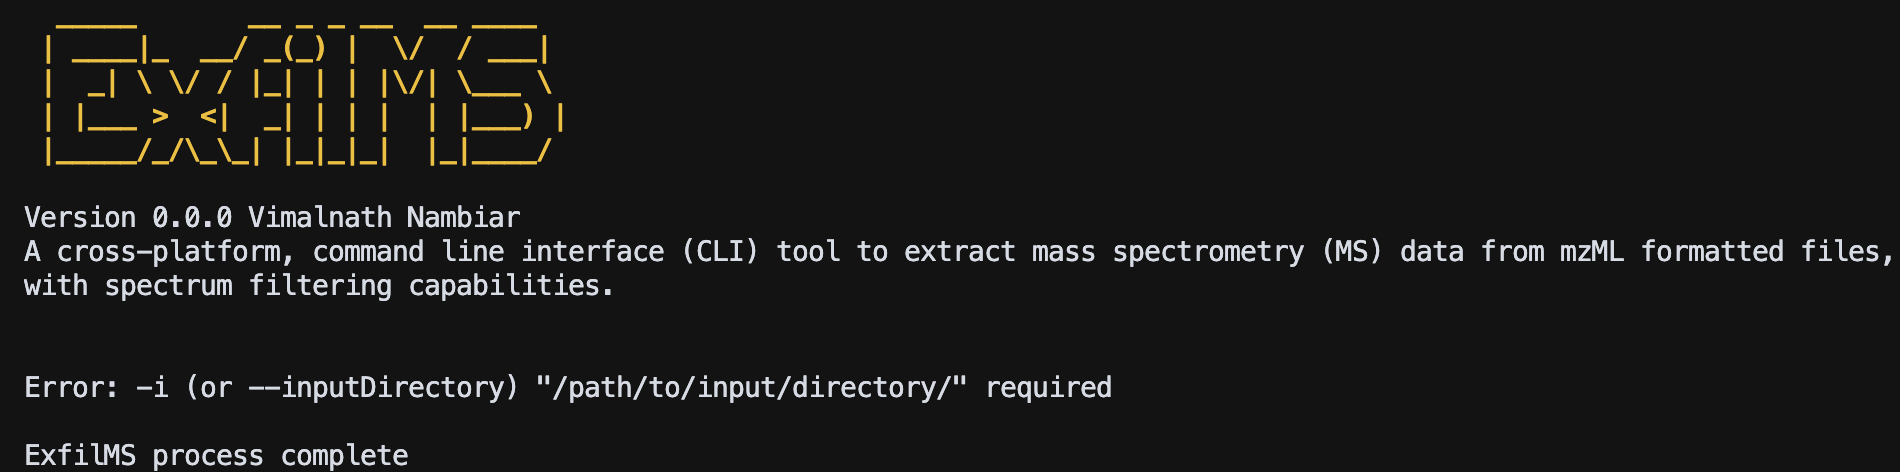
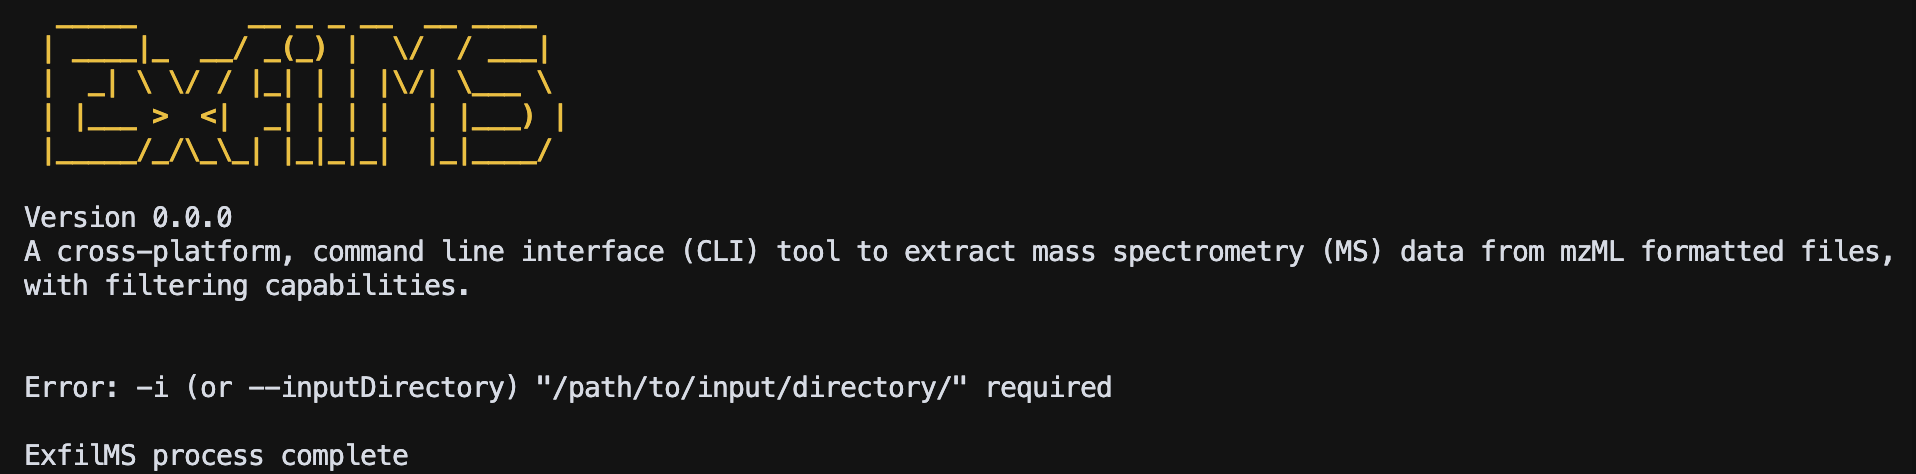
chore: add citation and update docs

diff --git a/src/exfilms.js b/src/exfilms.js
@@ -43,7 +43,7 @@ figlet('ExfilMS', async (err, data) => {
     );
     console.log(
       `${chalk.bold.yellowBright(data)}\n${chalk.grey(
-        `Version ${pkg.version} ${pkg.author}\n${pkg.description}\n`,
+        `Version ${pkg.version}\n${pkg.description}\n`,
       )}`,
     );
 

diff --git a/docs/how-to-exfilms-the-complete-guide.md b/docs/how-to-exfilms-the-complete-guide.md
@@ -18,7 +18,7 @@
 
 ## Introduction
 
-ExfilMS is a cross-platform, command line interface (CLI) tool that allows you to easily extract mass spectrometry (MS) data from mzML formatted files, with spectrum filtering capabilities. This guide will help you understand how to use ExfilMS to its full potential.
+ExfilMS is a cross-platform, command line interface (CLI) tool that allows you to easily extract mass spectrometry (MS) data from mzML formatted files, with filtering capabilities. This guide will help you understand how to use ExfilMS to its full potential.
 
 > [!NOTE]\
 > If you are reading this guide, it is assumed that you have ExfilMS already installed and is available on your device. If it is not installed, please refer to the installation guide [here](../README.md#installation).

diff --git a/README.md b/README.md
@@ -8,7 +8,7 @@
 
 ## Introduction
 
-ExfilMS is a cross-platform, command line interface (CLI) tool to extract mass spectrometry (MS) data from mzML formatted files, with spectrum filtering capabilities.
+ExfilMS is a cross-platform, command line interface (CLI) tool to extract mass spectrometry (MS) data from mzML formatted files, with filtering capabilities.
 
 <br>
 
